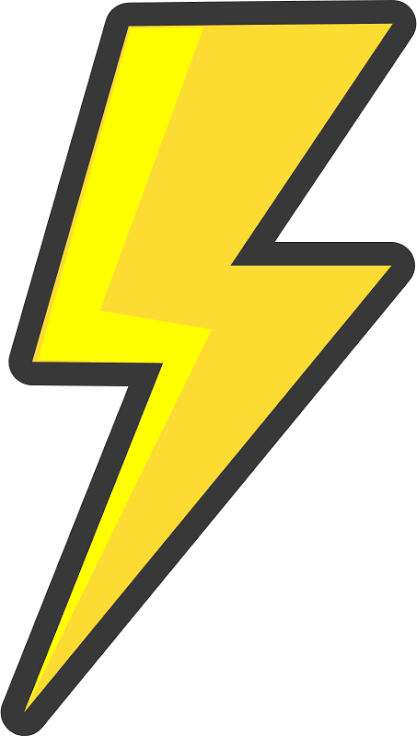
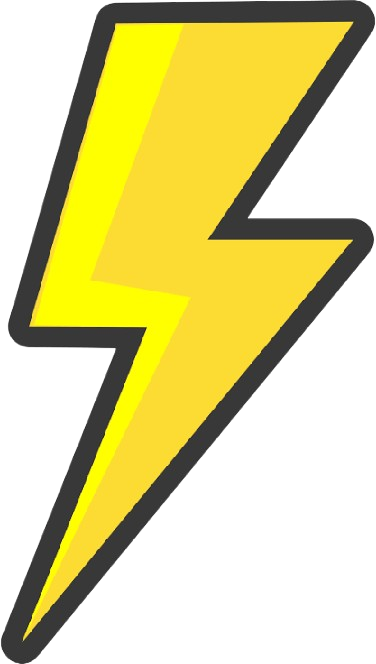
fixed images and called team 7's status functions

diff --git a/source/core/src/main/com/csse3200/game/components/player/PlayerStatsDisplay.java b/source/core/src/main/com/csse3200/game/components/player/PlayerStatsDisplay.java
@@ -61,14 +61,10 @@ public class PlayerStatsDisplay extends UIComponent {
         new Image(ServiceLocator.getResourceService().getAsset("images/energy.png", Texture.class));
 
     //Energy text
-    EnergyComponent component = entity.getComponent(EnergyComponent.class);
-    int energy = 100;
-    if (energy != 100) {
-      energy = component.getCurrentEnergy();
-    }
+    EnergyComponent energyComponent = entity.getComponent(EnergyComponent.class);
+    int energy = energyComponent.getCurrentEnergy();
     CharSequence energyText = String.format("Energy: %d", energy);
     energyLabel = new Label(energyText, skin, "large");
-    //energyLabel = new Label("Energy: ", skin, "large");
 
     //Piety image
     pietyImage =
@@ -82,7 +78,10 @@ public class PlayerStatsDisplay extends UIComponent {
         new Image(ServiceLocator.getResourceService().getAsset("images/money.png", Texture.class));
 
     //Money text
-    moneyLabel = new Label("Gold: $0", skin, "large");
+    InventoryComponent inventoryComponent = entity.getComponent(InventoryComponent.class);
+    int money = inventoryComponent.getGold();
+    CharSequence moneyText = String.format("Gold: $%d", money);
+    moneyLabel = new Label(moneyText, skin, "large");
 
     table.add(heartImage).size(imageSideLength).pad(5);
     table.add(healthLabel);

diff --git a/source/core/src/main/com/csse3200/game/entities/factories/PlayerFactory.java b/source/core/src/main/com/csse3200/game/entities/factories/PlayerFactory.java
@@ -2,6 +2,7 @@
 package com.csse3200.game.entities.factories;
 
 import com.csse3200.game.components.CombatStatsComponent;
+import com.csse3200.game.components.player.EnergyComponent;
 import com.csse3200.game.components.player.InventoryComponent;
 import com.csse3200.game.components.player.PlayerActions;
 import com.csse3200.game.components.player.PlayerStatsDisplay;
@@ -38,7 +39,9 @@ public class PlayerFactory {
             .addComponent(new CombatStatsComponent(stats.health, stats.baseAttack))
             .addComponent(new InventoryComponent(stats.gold))
             .addComponent(inputComponent)
-            .addComponent(new PlayerStatsDisplay());
+            .addComponent(new PlayerStatsDisplay())
+            .addComponent(new EnergyComponent(100))
+            .addComponent(new InventoryComponent(10));
 
     PhysicsUtils.setScaledCollider(player, 0.6f, 0.3f);
     player.getComponent(ColliderComponent.class).setDensity(1.5f);

diff --git a/source/core/src/main/com/csse3200/game/screens/BattleScreen.java b/source/core/src/main/com/csse3200/game/screens/BattleScreen.java
@@ -125,16 +125,6 @@ public class BattleScreen extends ScreenAdapter {
             .variant("cardDisplay") // Use CardDisplay
             .build();
 
-    /**DisplayingRecord healthDisplayLabel =
-            DisplayingRecord.builder("Health")
-                    .position(1000, 50) // Position on screen
-                    .fontName("large") // Use a large font
-                    .scale(1.2f) // Scale it up
-                    .variant("healthDisplay") // Use CardDisplay
-                    .build();
-     */
-
-
     // sprites/BattleUi.json defines the static UI (exit/up/down); the card hand itself
     // is dealt dynamically by CardService each round, so it's merged in here rather than
     // being hardcoded in JSON.
